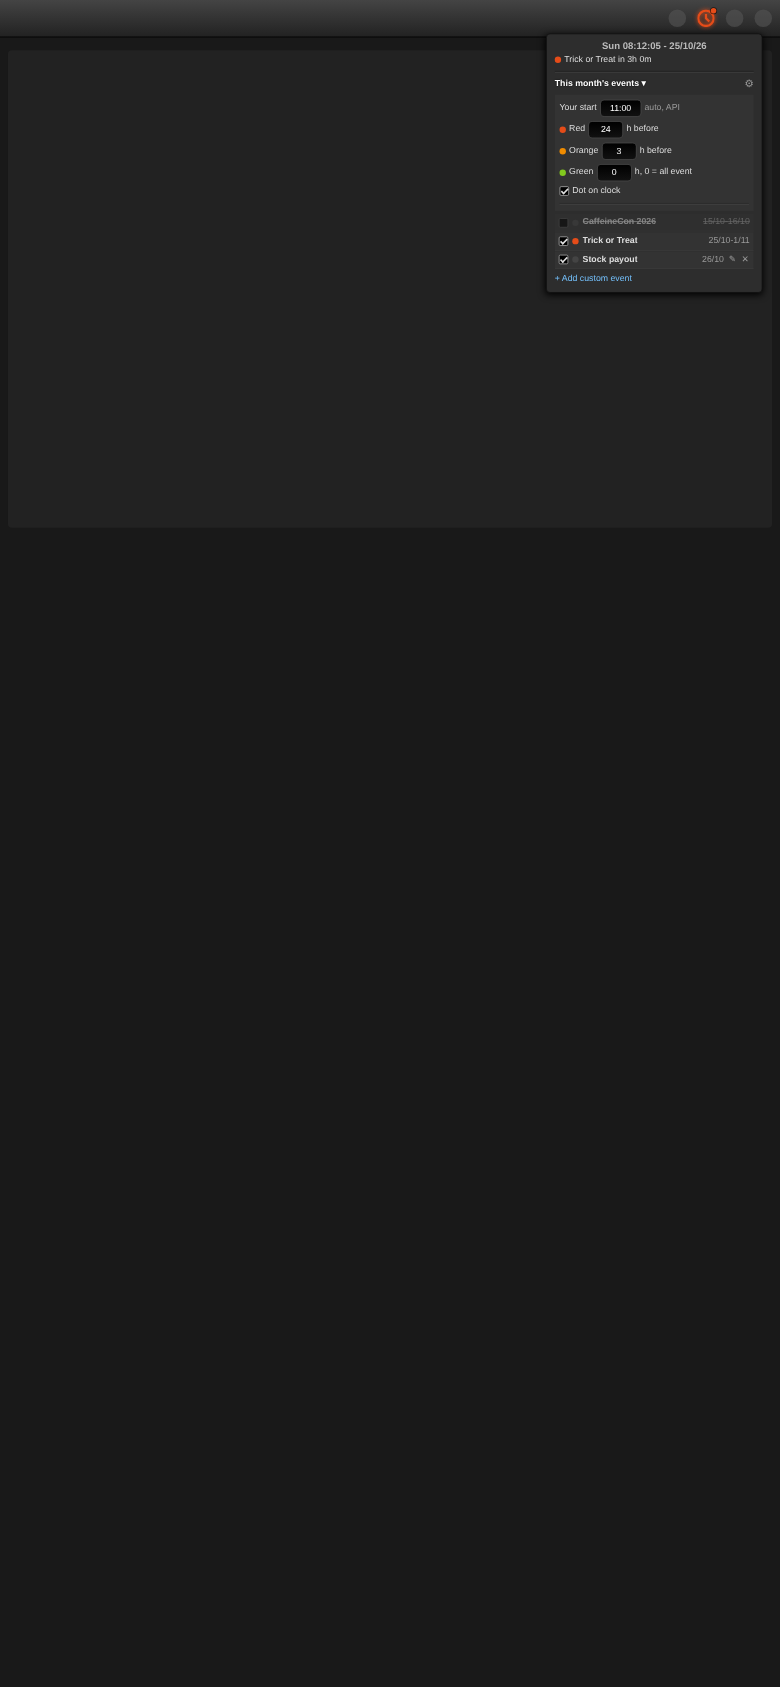
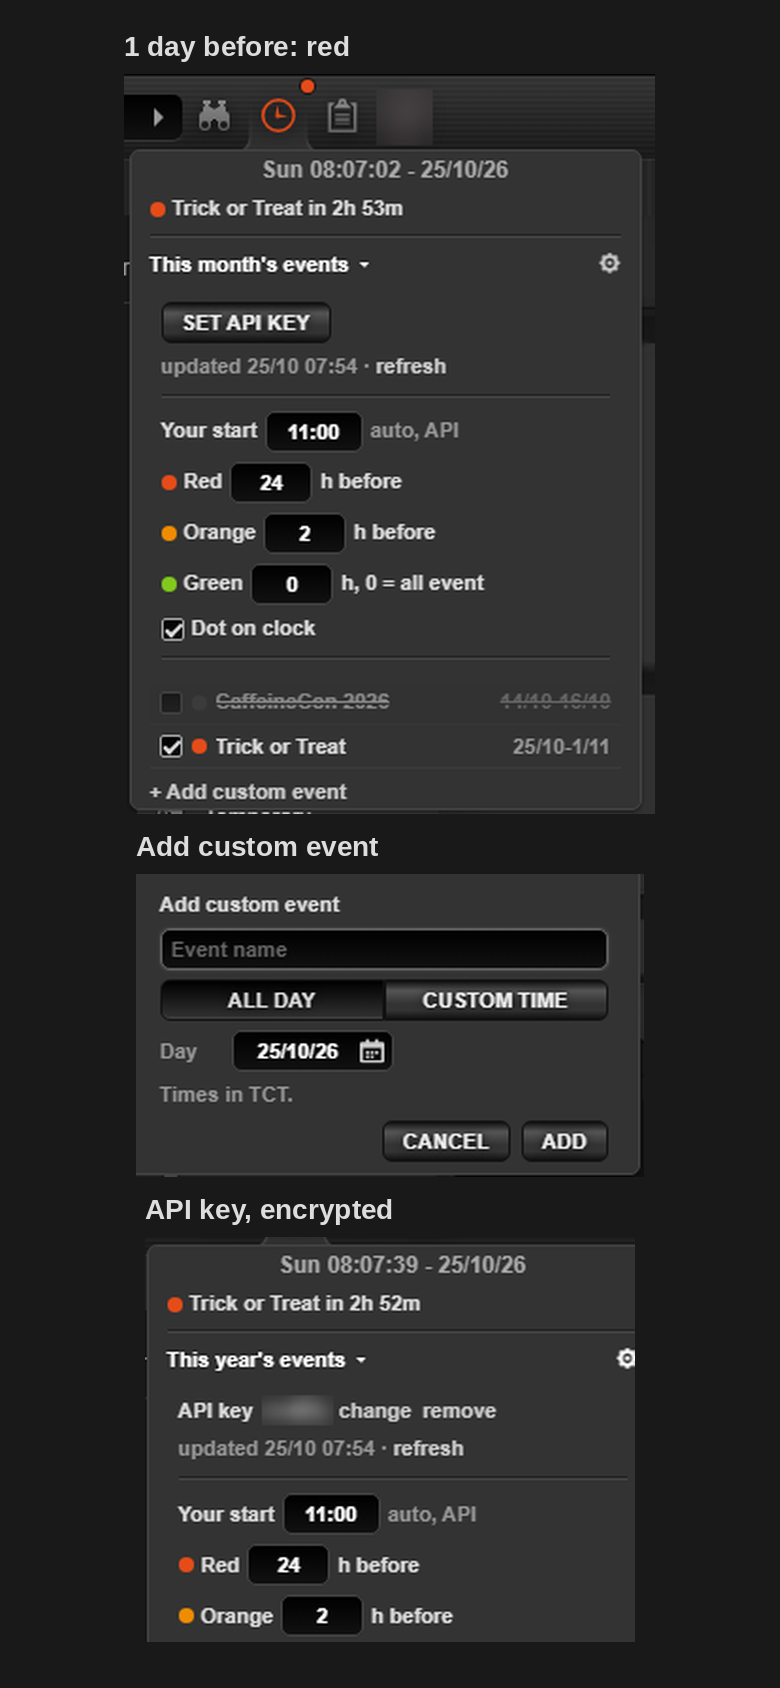
Update description and screenshots

diff --git a/Torn Event Reminder/greasyfork.md b/Torn Event Reminder/greasyfork.md
@@ -3,7 +3,7 @@
 <a href="https://raw.githubusercontent.com/Yoonutz/torn-scripts/main/Torn%20Event%20Reminder/screenshot.png"><img src="https://raw.githubusercontent.com/Yoonutz/torn-scripts/main/Torn%20Event%20Reminder/screenshot.png" alt="Torn Event reminder on desktop" width="620"></a>
 <a href="https://raw.githubusercontent.com/Yoonutz/torn-scripts/main/Torn%20Event%20Reminder/screenshot-mobile.png"><img src="https://raw.githubusercontent.com/Yoonutz/torn-scripts/main/Torn%20Event%20Reminder/screenshot-mobile.png" alt="Torn Event reminder on a phone" width="190"></a>
 </center>
-<center><small>Desktop and phone. Demo data.</small></center>
+<center><small>Desktop and phone, on the live Torn page. Avatar and key blurred.</small></center>
 <h2>What it does</h2>
 <ul>
 <li><b>Colored clock.</b> Red, orange and green on Torn's own clock icon, with the next event under the time.</li>

diff --git a/Torn Event Reminder/README.md b/Torn Event Reminder/README.md
@@ -6,7 +6,7 @@
   <img src="screenshot.png" alt="Torn Event reminder on desktop" width="720">
   <img src="screenshot-mobile.png" alt="Torn Event reminder on mobile" width="200">
 </p>
-<p align="center"><sub>Desktop and phone. Demo data.</sub></p>
+<p align="center"><sub>Desktop and phone, on the live Torn page. Avatar and key blurred.</sub></p>
 
 ## Features
 - **Colored clock.** Red, orange and green on Torn's own clock icon, with the next event under the time.
